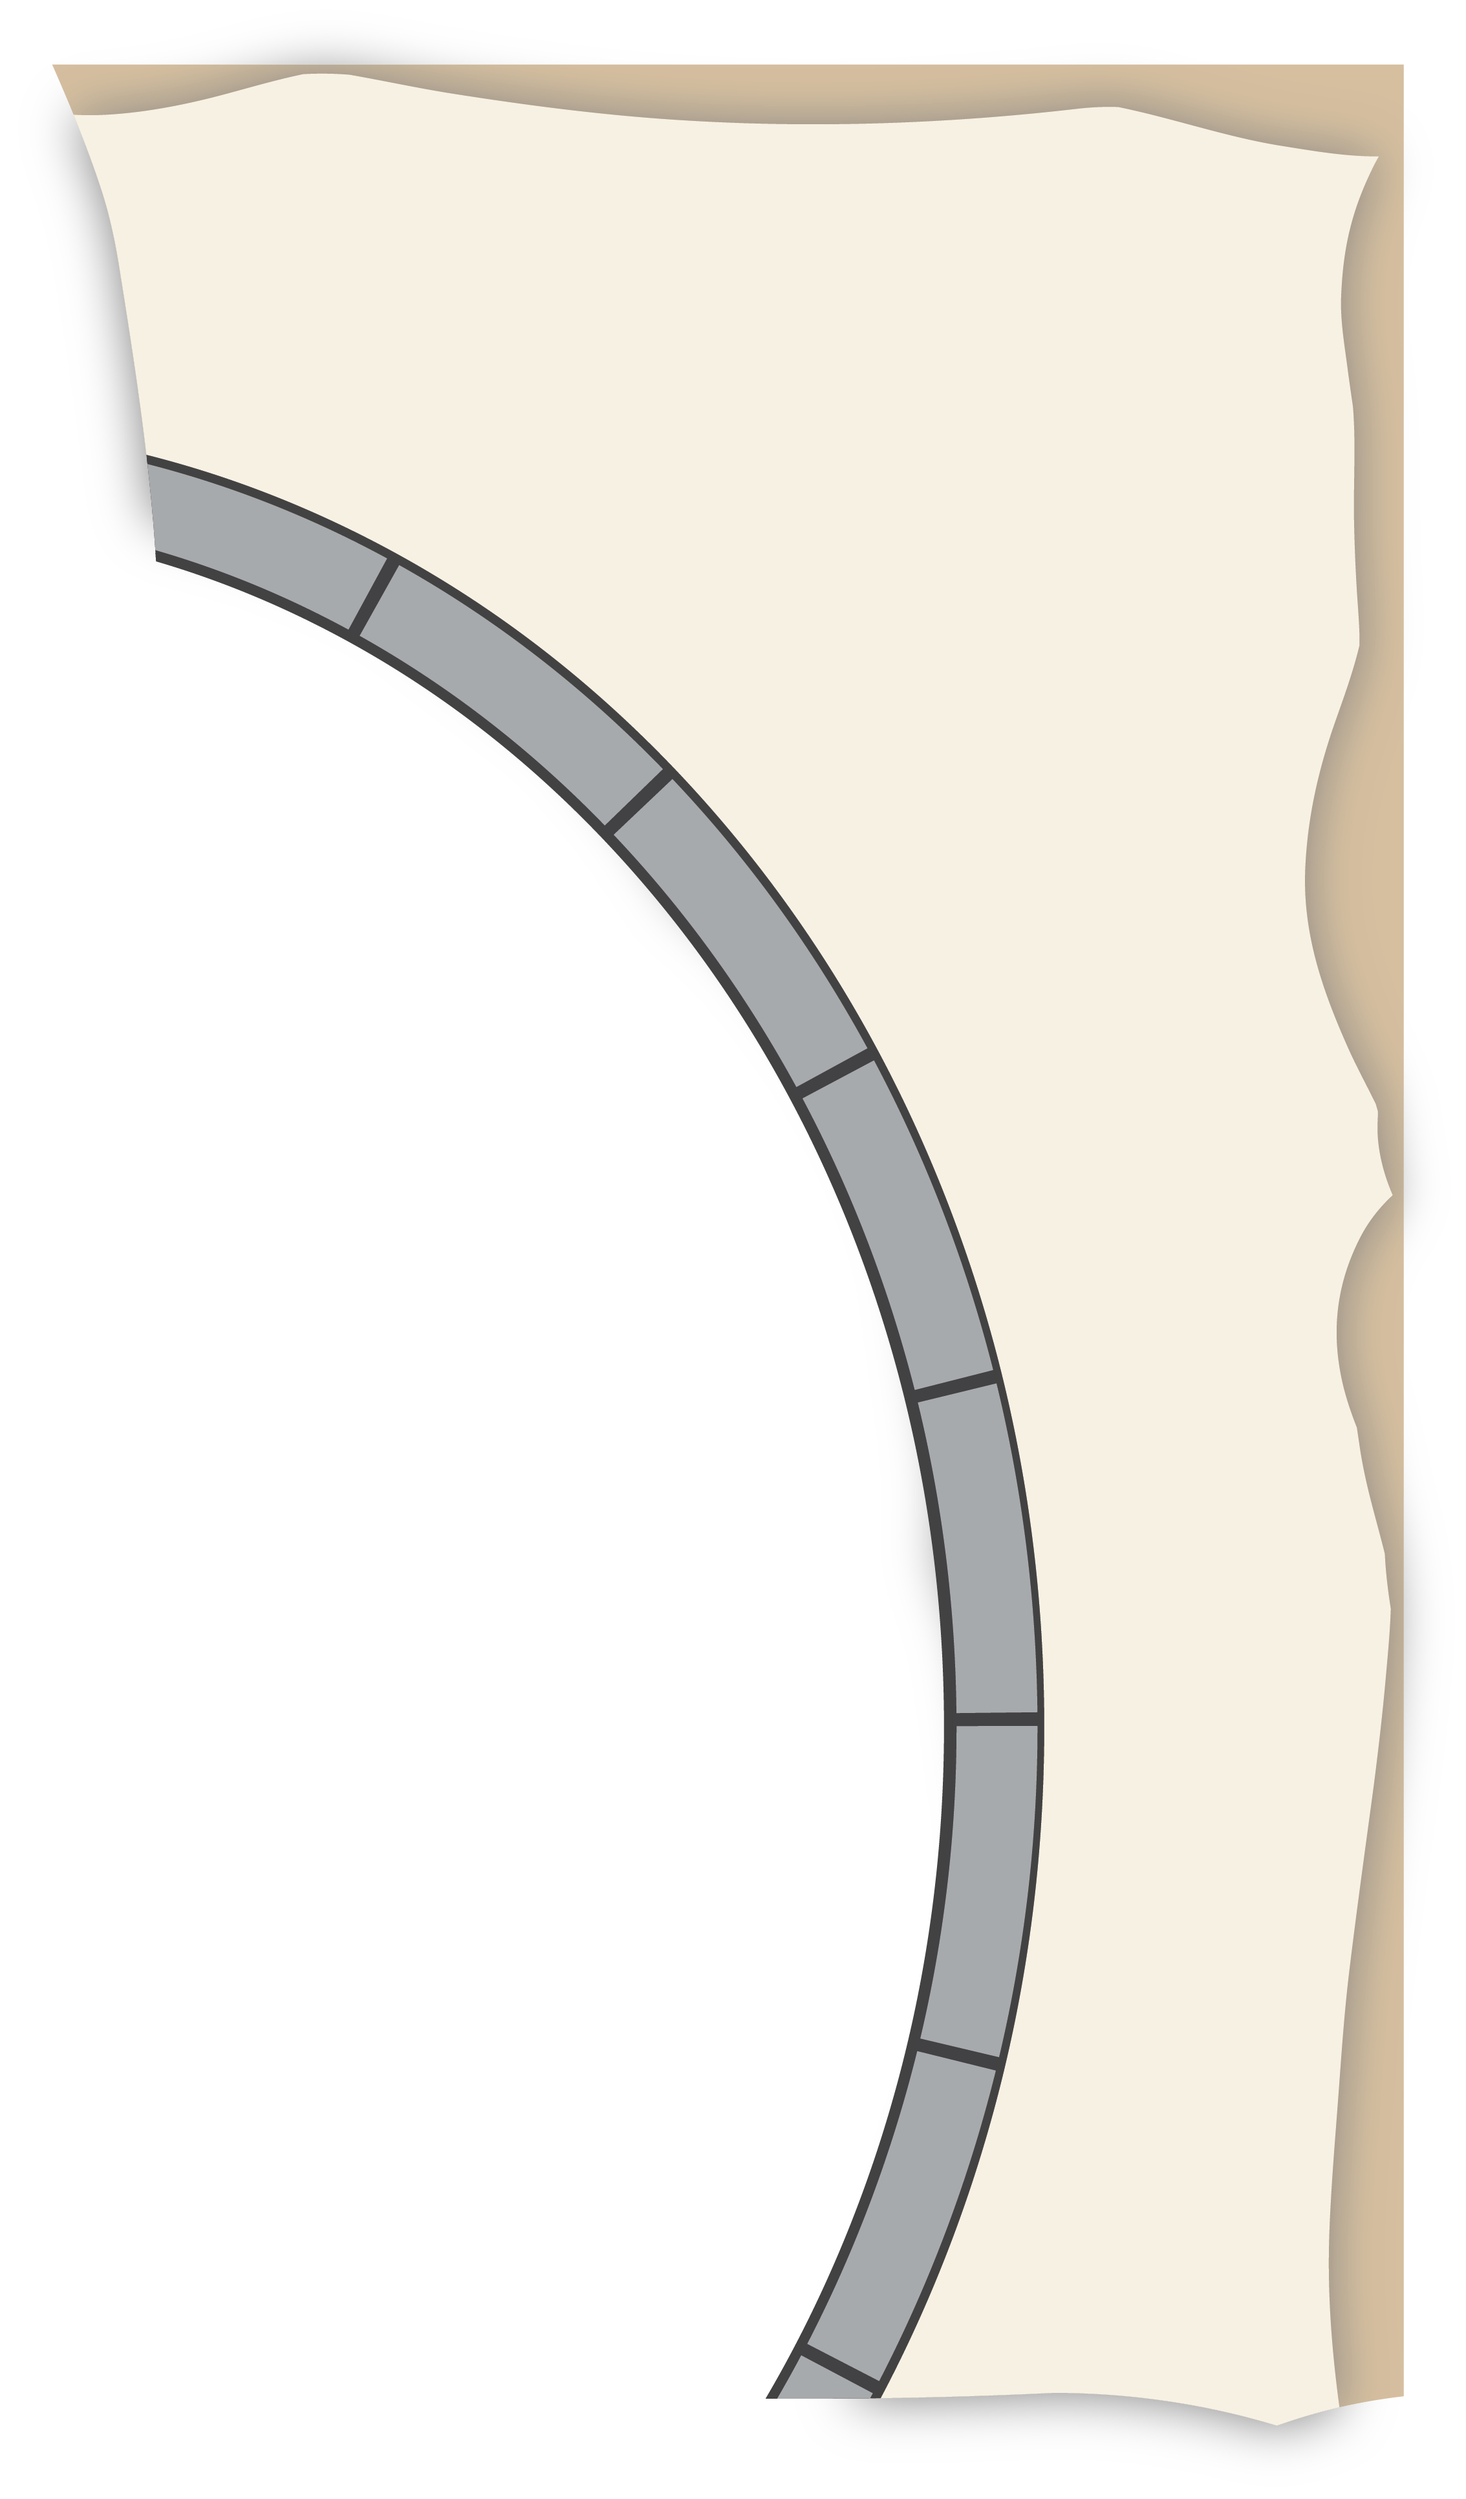
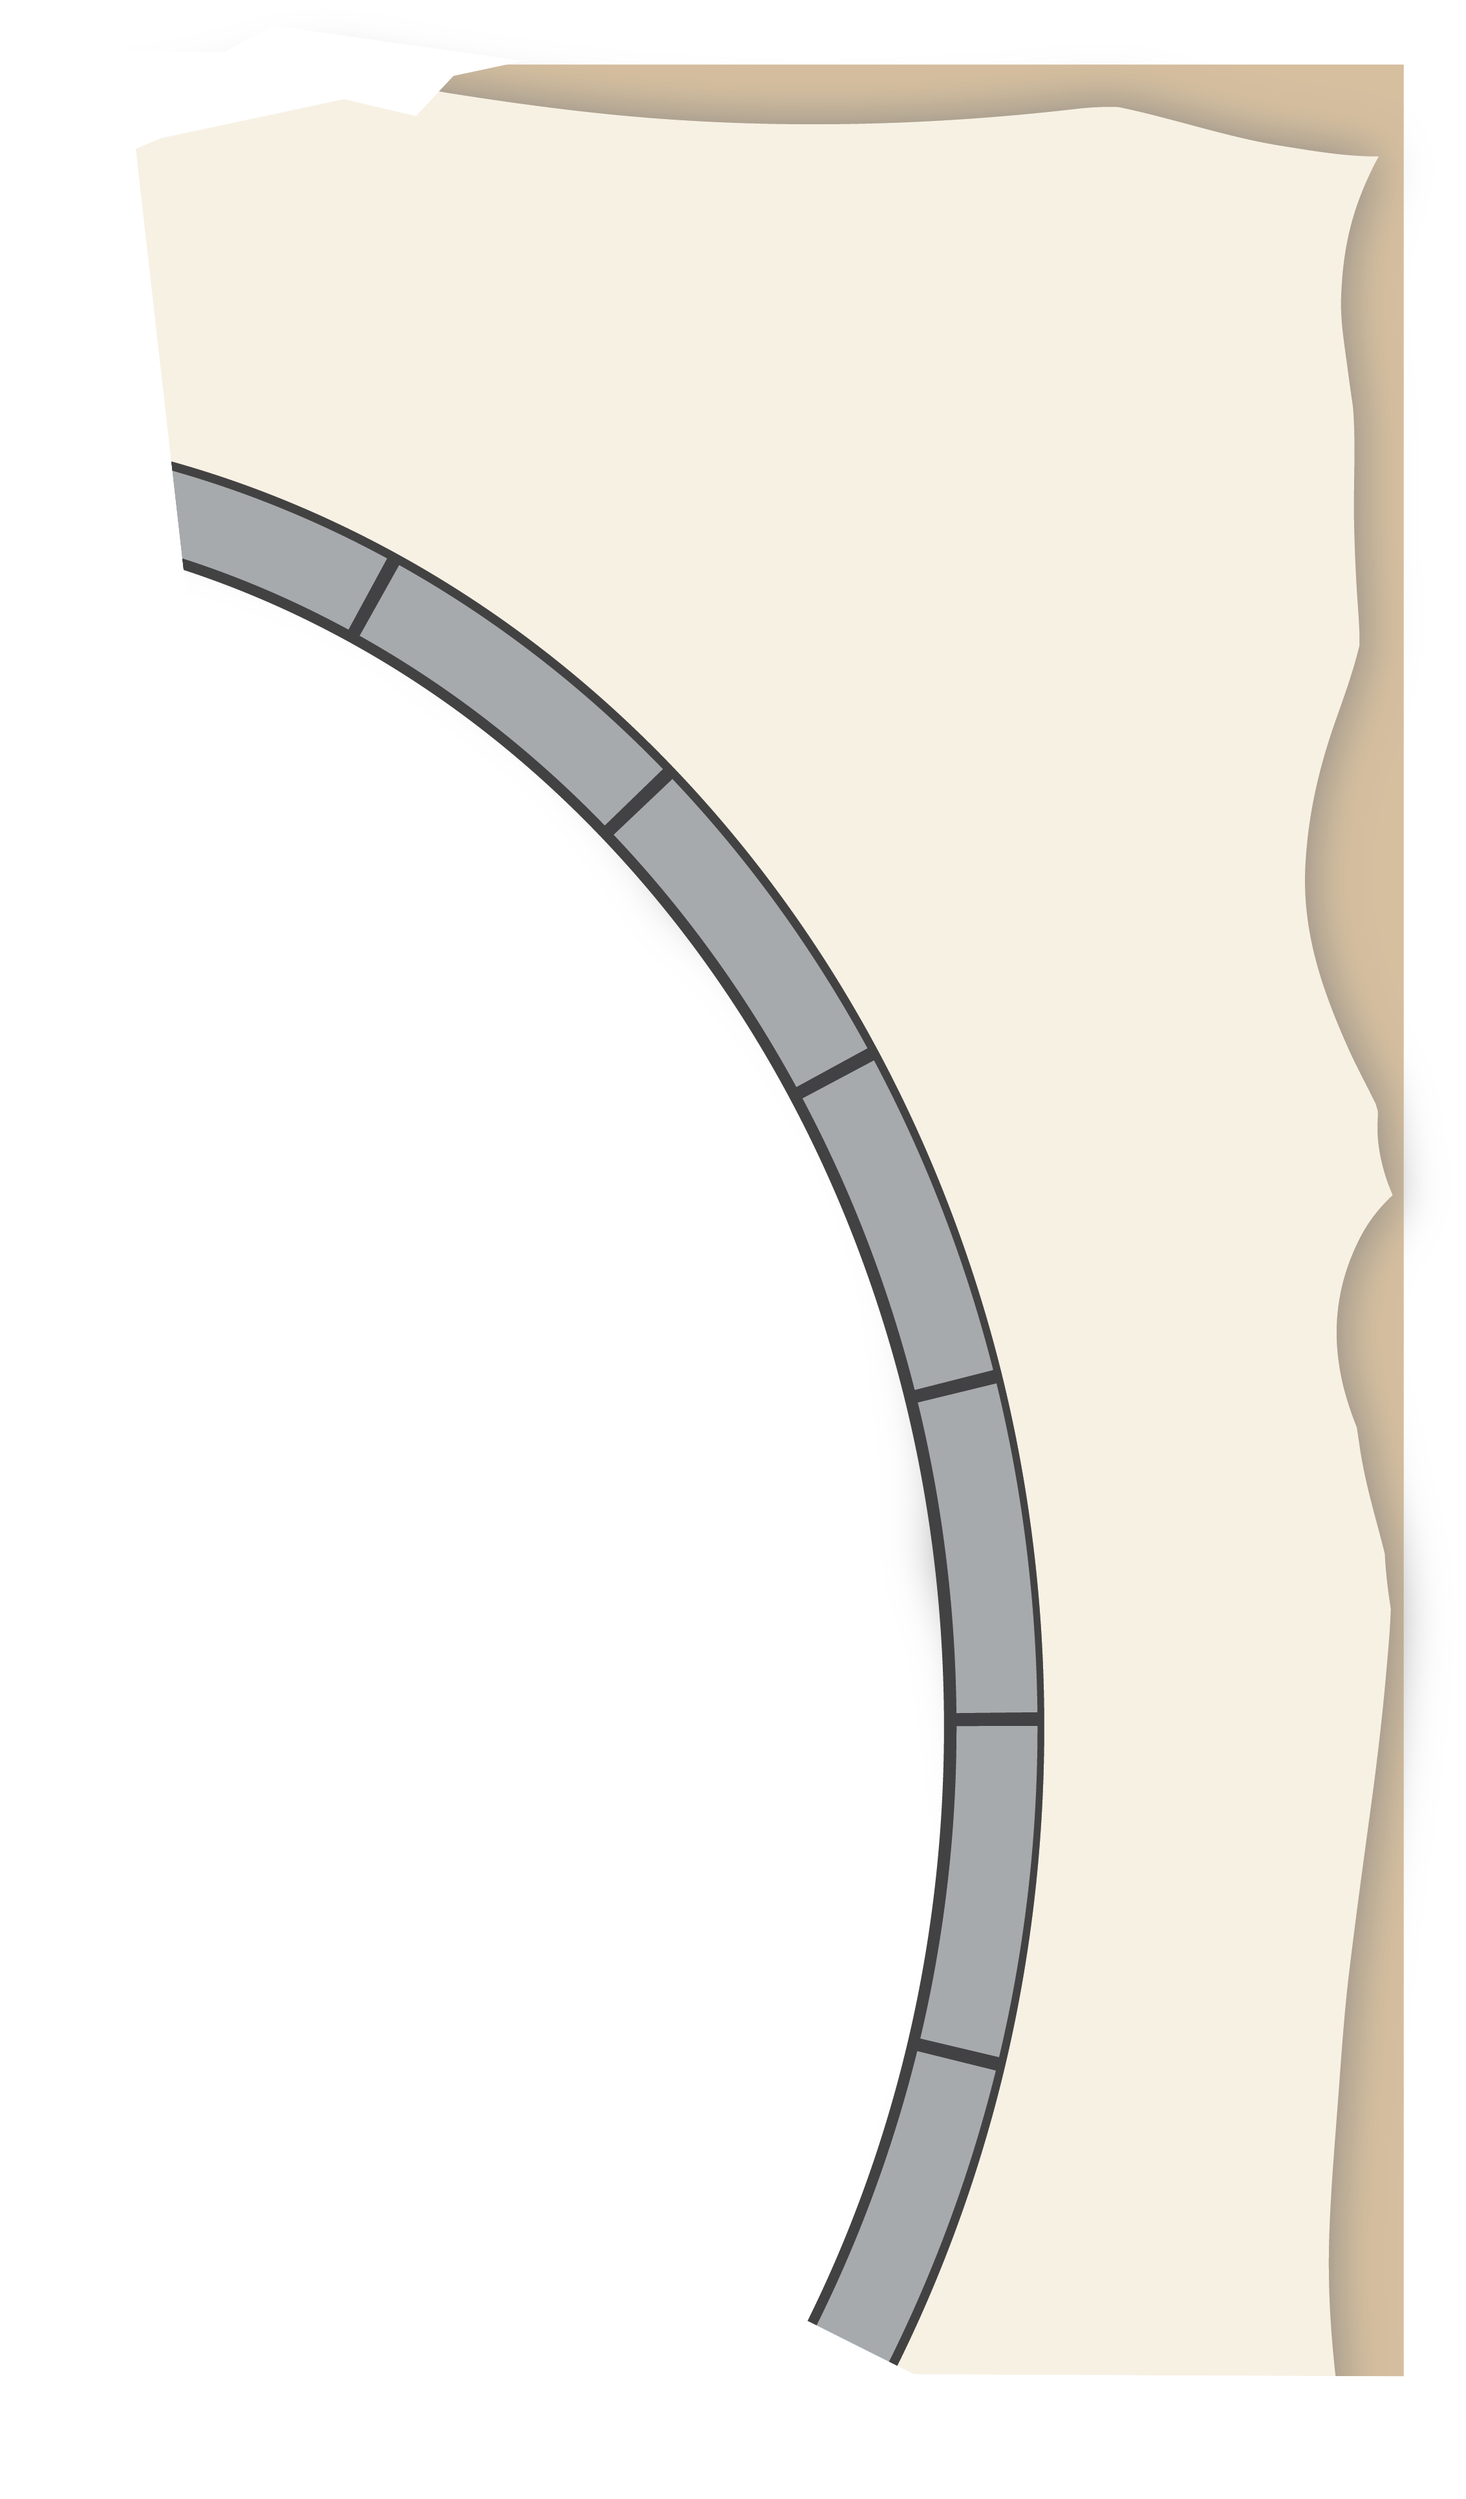
We are masked! (Final?)

Changed region(s): [[0.0309, 0.0, 0.3088, 0.2485], [0.5249, 0.9319, 0.9572, 0.994]]

diff --git a/index.html b/index.html
@@ -14,7 +14,7 @@
 </head>
 <body>
 
-
+<div class="mask-box">
 
   <svg id="Layer_1" data-name="Layer 1" xmlns="http://www.w3.org/2000/svg" xmlns:xlink="http://www.w3.org/1999/xlink" viewBox="0 0 1200.72 1524">
     <defs>
@@ -2351,10 +2351,17 @@
     </g>
   </svg>
 
-  <img src="mask.png" alt="mask">
+  <img class="mask-img" src="mask.png" alt="mask">
+</div>
+
+<script src="https://code.jquery.com/jquery-3.6.0.min.js" integrity="sha256-/xUj+3OJU5yExlq6GSYGSHk7tPXikynS7ogEvDej/m4=" crossorigin="anonymous"></script>
+
+<script>
+  setTimeout(function() { 
+    $('.mask-img').css('opacity', '1')
+    }, 12000);
   
-
-
+</script>
 
 
       

diff --git a/styles.css b/styles.css
@@ -17,16 +17,24 @@ svg {
     display: block;
     margin-left: auto;
     margin-right: auto;
-    width: 37%;
+    width: 100%;
   height: auto;
   overflow: visible;
 }
 
-.mask {
+.mask-box {
+    position: relative;
+    width: 37%;
+    margin: auto;
+}
+
+.mask-img {
     position: absolute;
-    top: 50px;
-    right: 478px;
-    width: 486px;
+    top: 23.5px;
+    right: 21.2px;
+    width: 45%;
+    opacity: 0;
+   
 }
 
 #background {
@@ -63,7 +71,7 @@ svg {
 
 #poster_info {
     animation: fadeIn ease 4s;
-    animation-delay: 16.5s;
+    animation-delay: 16s;
     animation-fill-mode: both;
     
 }
